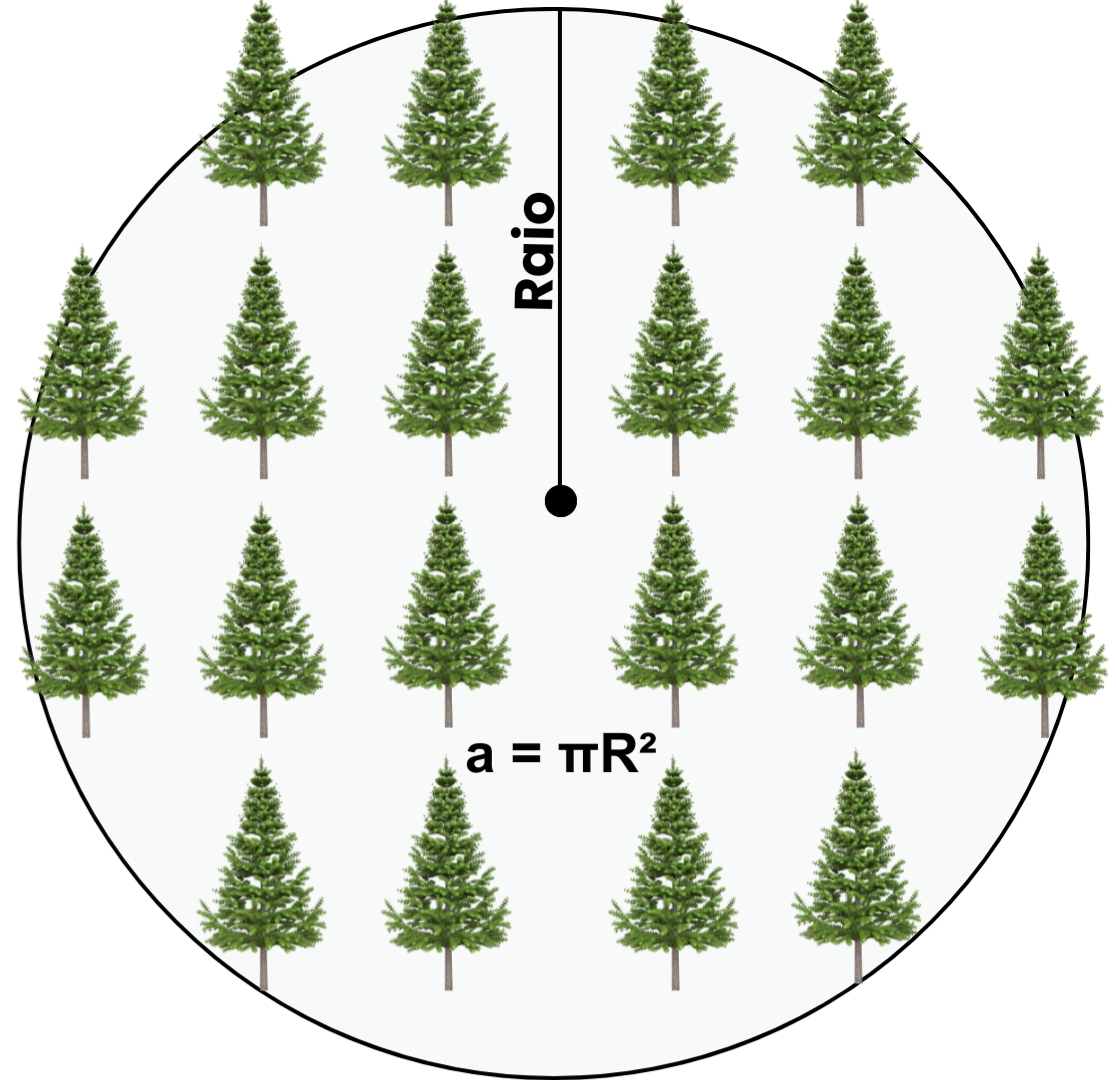
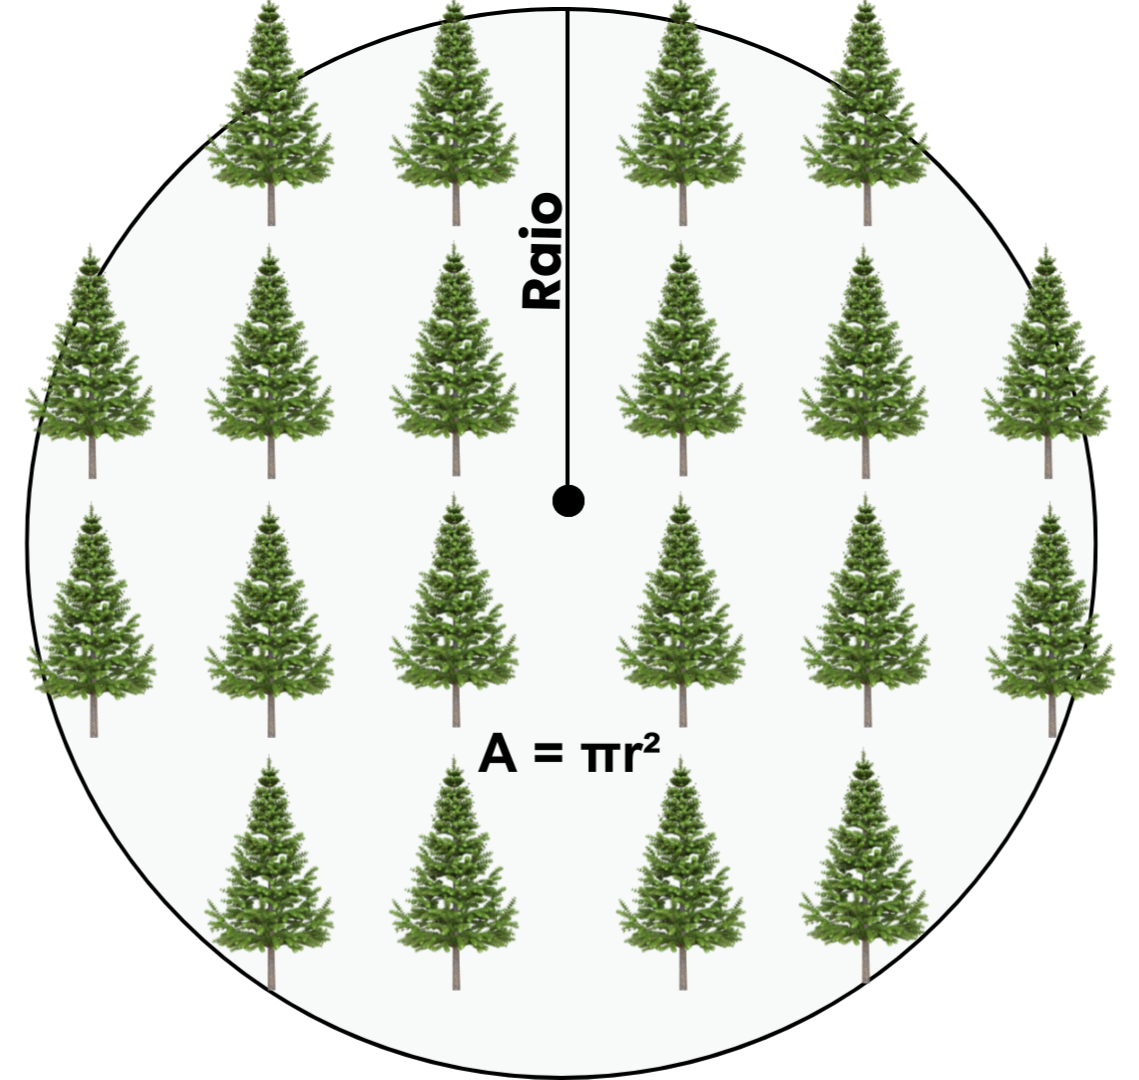
Update

diff --git a/Slides/04-Métodos-Amostragem.html b/Slides/04-Métodos-Amostragem.html
@@ -276,6 +276,7 @@ name: ma
 ---
 
 ## 🌳 Métodos de Amostragem
+&lt;br&gt;
 
 .pull-left-4[
 &lt;img src="fig/class4/circular.png" width="80%" style="display: block; margin: auto;" /&gt;
@@ -285,9 +286,59 @@ name: ma
 
 .pull-right-4[
 .shadow3[
+.center[
 #### 👉 Unidade de Amostra Circular
+]
+
+- **Área da parcela circular**: 
+
+`$$A = \pi r^2 = \frac{\pi d^2}{4} (m^2~ou~ha)$$` 
+.font80[
+r = raio da parcela, em metros
+
+d = 2r (d = diâmetro da parcela, em metros)
+
+π = 3,14159 (constante infinita)
+&lt;br&gt;&lt;br&gt;
+
+1 hectare ➔ 10.000 m²
+
+]
+]
+]
+
+---
+
+## 🌳 Métodos de Amostragem
+&lt;br&gt;
+
+.pull-left-4[
+&lt;img src="fig/class4/area.png" width="80%" style="display: block; margin: auto;" /&gt;
+]
+
+--
+
+.pull-right-4[
+.shadow3[
+.center[
+#### 👉 Unidade de Amostra Circular
+]
+.font80[
+- 🤔 **Qual a área da parcela, em m² e hectare, para os valores de raios diâmetros a seguir**:
 
 
+✍ raio = 12,62m❓
+
+--
+
+A = π(12,62) 👉 .blue[A = **500,34** m²] (em metro quadrado)
+
+A = 500,34m²/10.000m² = .blue[A = **0.050034** ha] (em hectare)
+
+&lt;br&gt;
+
+✍ raio = 13,82m❓
+]
 ]
 ]
 
